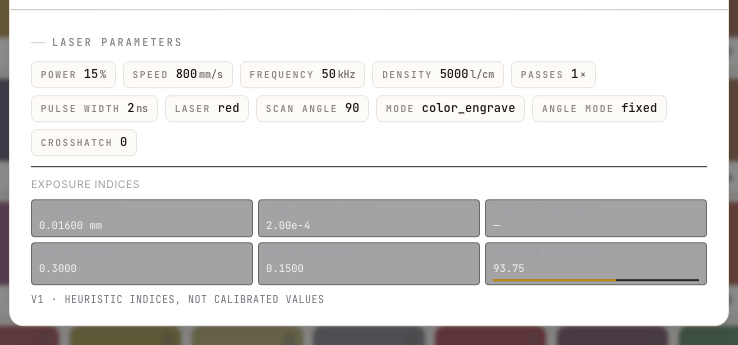
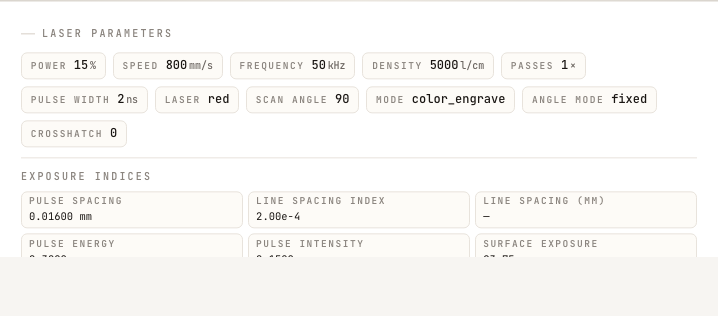
fix(ui): restyle PaletteIndicesChips to match light palette page
The original styling used dark zinc-900 chip backgrounds with light
zinc-100 text — designed for a dark-themed surface. The palette page
is the Workshop Instrument light/cream theme, so the chips rendered
as illegible mid-grey rectangles with invisible labels.

Restyles to match the existing 'Laser parameters' chips that sit
directly above the indices block: light card background using
--color-surface-elevated, dark muted labels via --color-ink-subtle,
dark mono values via --color-ink, and design-token borders. The
section header typography is also updated to match the SectionLabel
pattern (font-mono, tracking-[0.22em], ink-subtle). The
surface_exposure log-scaled bar is preserved with bg-amber-600 for
visible contrast on the light background.

Same fixes applied to the wrapper divs in both PalettePage.tsx and
PaletteEntryDialog.tsx (border-zinc-800 → --color-border, text-zinc-400
→ --color-ink-subtle).

Updates the changelog screenshot accordingly.

diff --git a/web/src/components/PaletteIndicesChips.tsx b/web/src/components/PaletteIndicesChips.tsx
@@ -20,17 +20,17 @@ interface ChipProps {
 
 const Chip: React.FC<ChipProps> = ({ label, value, bar }) => (
   <div
-    className="flex flex-col gap-0.5 rounded-sm border border-zinc-700/60 bg-zinc-900/40 px-2 py-1 text-xs"
+    className="flex flex-col gap-0.5 rounded-[6px] border border-[color:var(--color-border)] bg-[color:var(--color-surface-elevated)] px-2 py-1 text-xs"
     role="group"
   >
-    <span className="font-sans uppercase tracking-wider text-[10px] text-zinc-400">
+    <span className="font-mono uppercase tracking-[0.16em] text-[9.5px] font-semibold text-[color:var(--color-ink-subtle)]">
       {label}
     </span>
-    <span className="font-mono tabular-nums text-zinc-100">{value}</span>
+    <span className="font-mono tabular-nums text-[color:var(--color-ink)]">{value}</span>
     {bar !== undefined && (
-      <div className="mt-0.5 h-0.5 w-full bg-zinc-800">
+      <div className="mt-0.5 h-0.5 w-full bg-[color:var(--color-border)]">
         <div
-          className="h-full bg-amber-400/70"
+          className="h-full bg-amber-600"
           style={{ width: `${Math.max(0, Math.min(1, bar)) * 100}%` }}
         />
       </div>
@@ -89,7 +89,7 @@ export const PaletteIndicesChips: React.FC<{ indices: LaserIndices }> = ({
           bar={logBar(indices.surface_exposure_index)}
         />
       </div>
-      <div className="flex items-center gap-2 font-mono text-[10px] uppercase tracking-wider text-zinc-500">
+      <div className="flex items-center gap-2 font-mono text-[10px] uppercase tracking-wider text-[color:var(--color-ink-subtle)]">
         <span
           title={`density_model=${indices.density_model}; power_model=${indices.power_model}`}
         >

diff --git a/web/src/components/PalettePage.tsx b/web/src/components/PalettePage.tsx
@@ -1090,8 +1090,8 @@ function InfoModalContent({
               ))}
             </div>
             {entry.indices && (
-              <div className="mt-3 border-t border-zinc-800 pt-3">
-                <h4 className="mb-2 font-sans text-xs uppercase tracking-wider text-zinc-400">
+              <div className="mt-3 border-t border-[color:var(--color-border)] pt-3">
+                <h4 className="mb-2 font-mono text-[10px] font-semibold uppercase tracking-[0.22em] text-[color:var(--color-ink-subtle)]">
                   Exposure indices
                 </h4>
                 <PaletteIndicesChips indices={entry.indices} />

diff --git a/web/src/components/PaletteEntryDialog.tsx b/web/src/components/PaletteEntryDialog.tsx
@@ -233,8 +233,8 @@ export function PaletteEntryDialog({
           </Card>
 
           {entry?.indices && (
-            <div className="mt-3 border-t border-zinc-800 pt-3">
-              <h4 className="mb-2 font-sans text-xs uppercase tracking-wider text-zinc-400">
+            <div className="mt-3 border-t border-[color:var(--color-border)] pt-3">
+              <h4 className="mb-2 font-mono text-[10px] font-semibold uppercase tracking-[0.22em] text-[color:var(--color-ink-subtle)]">
                 Exposure indices
               </h4>
               <PaletteIndicesChips indices={entry.indices} />
